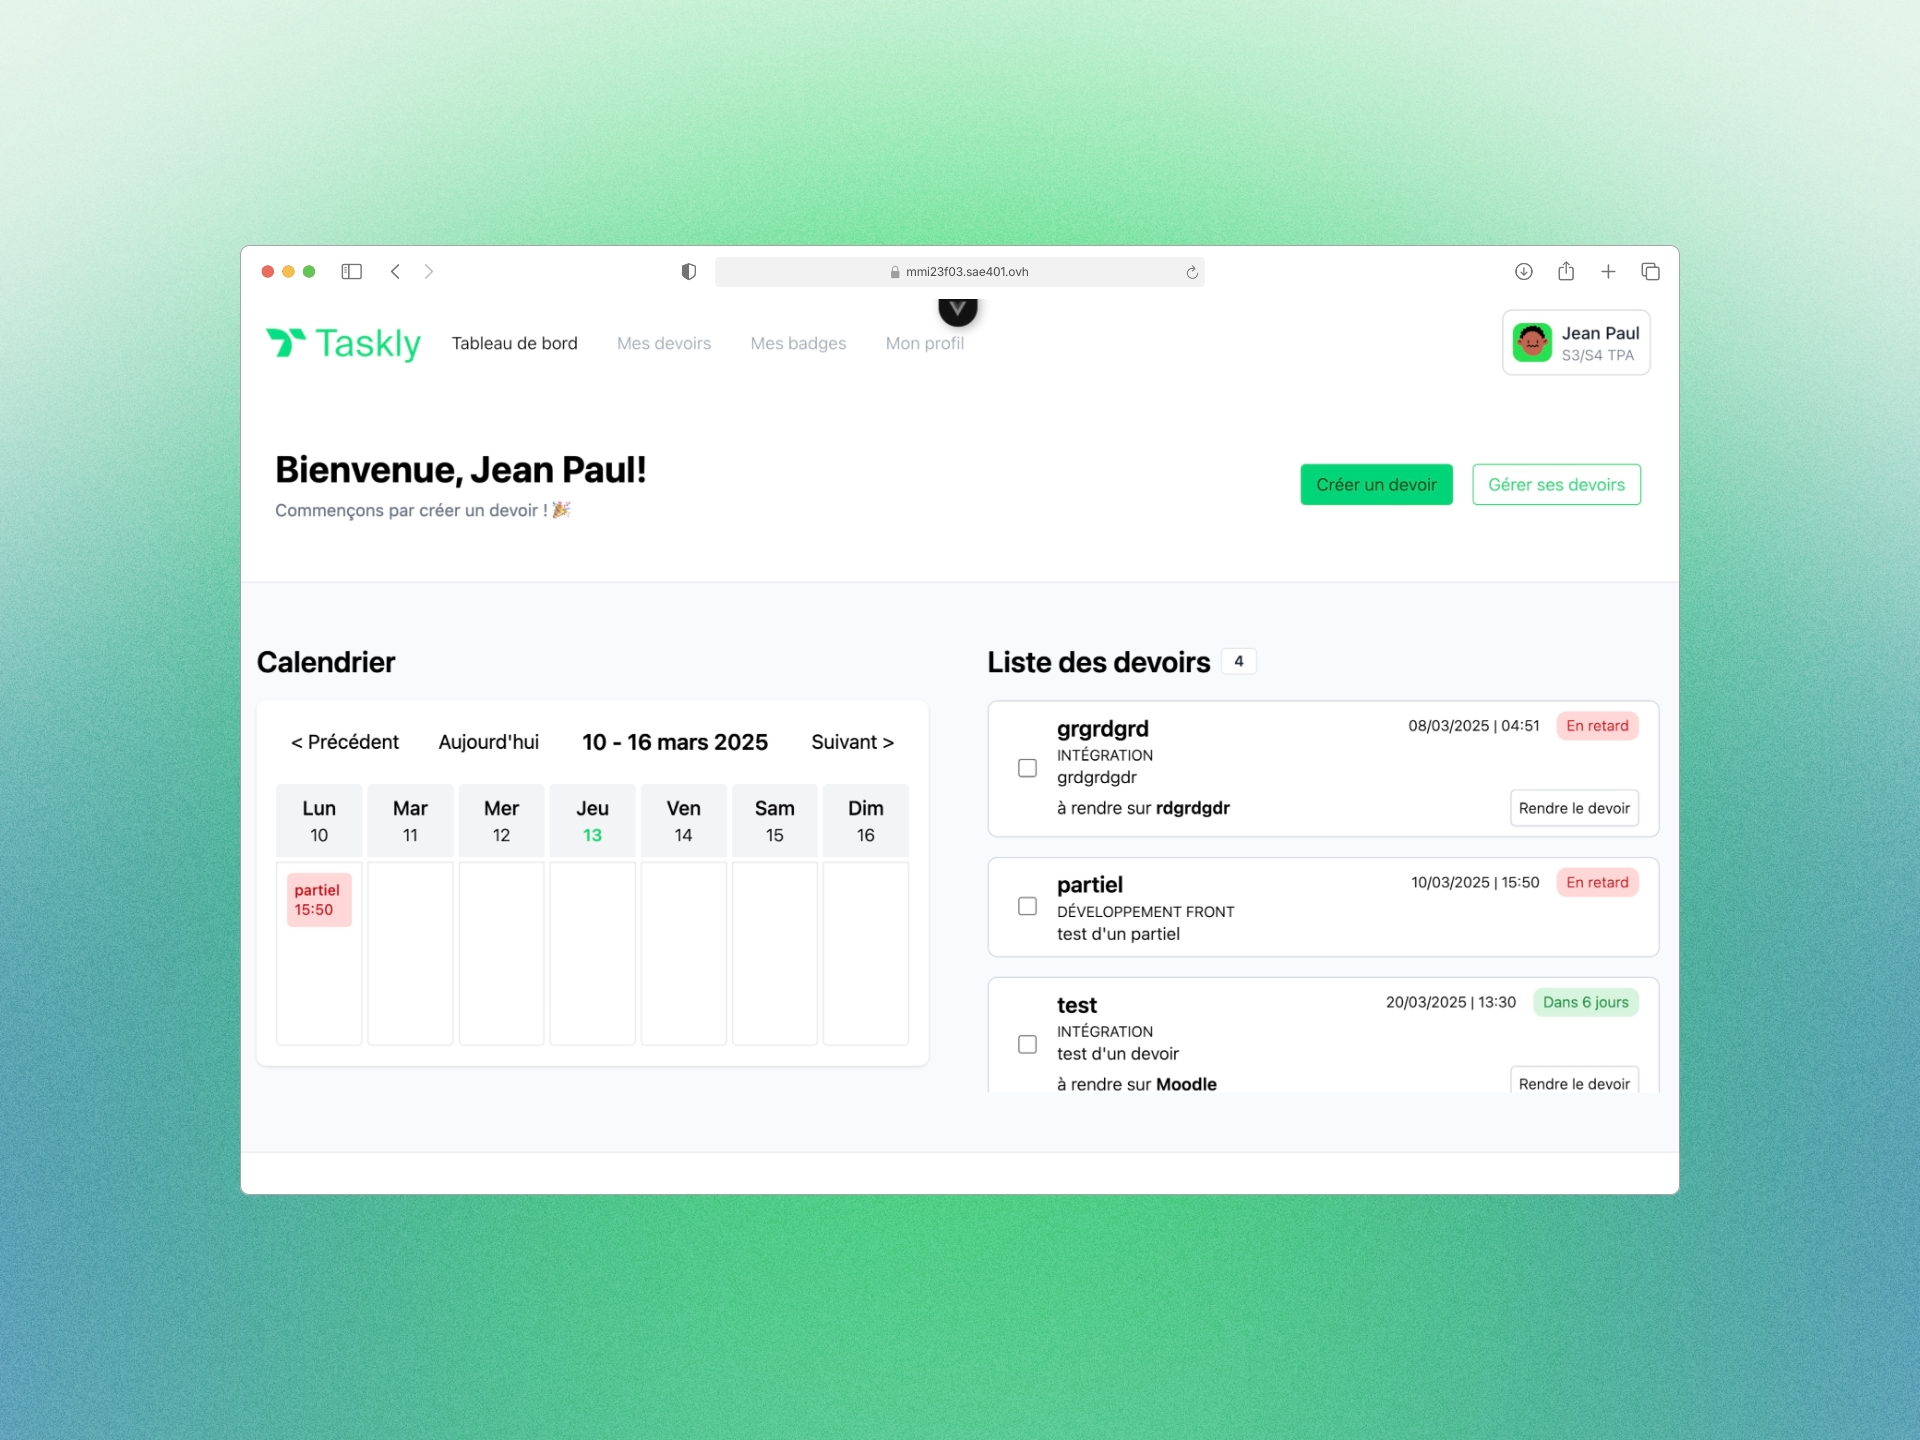
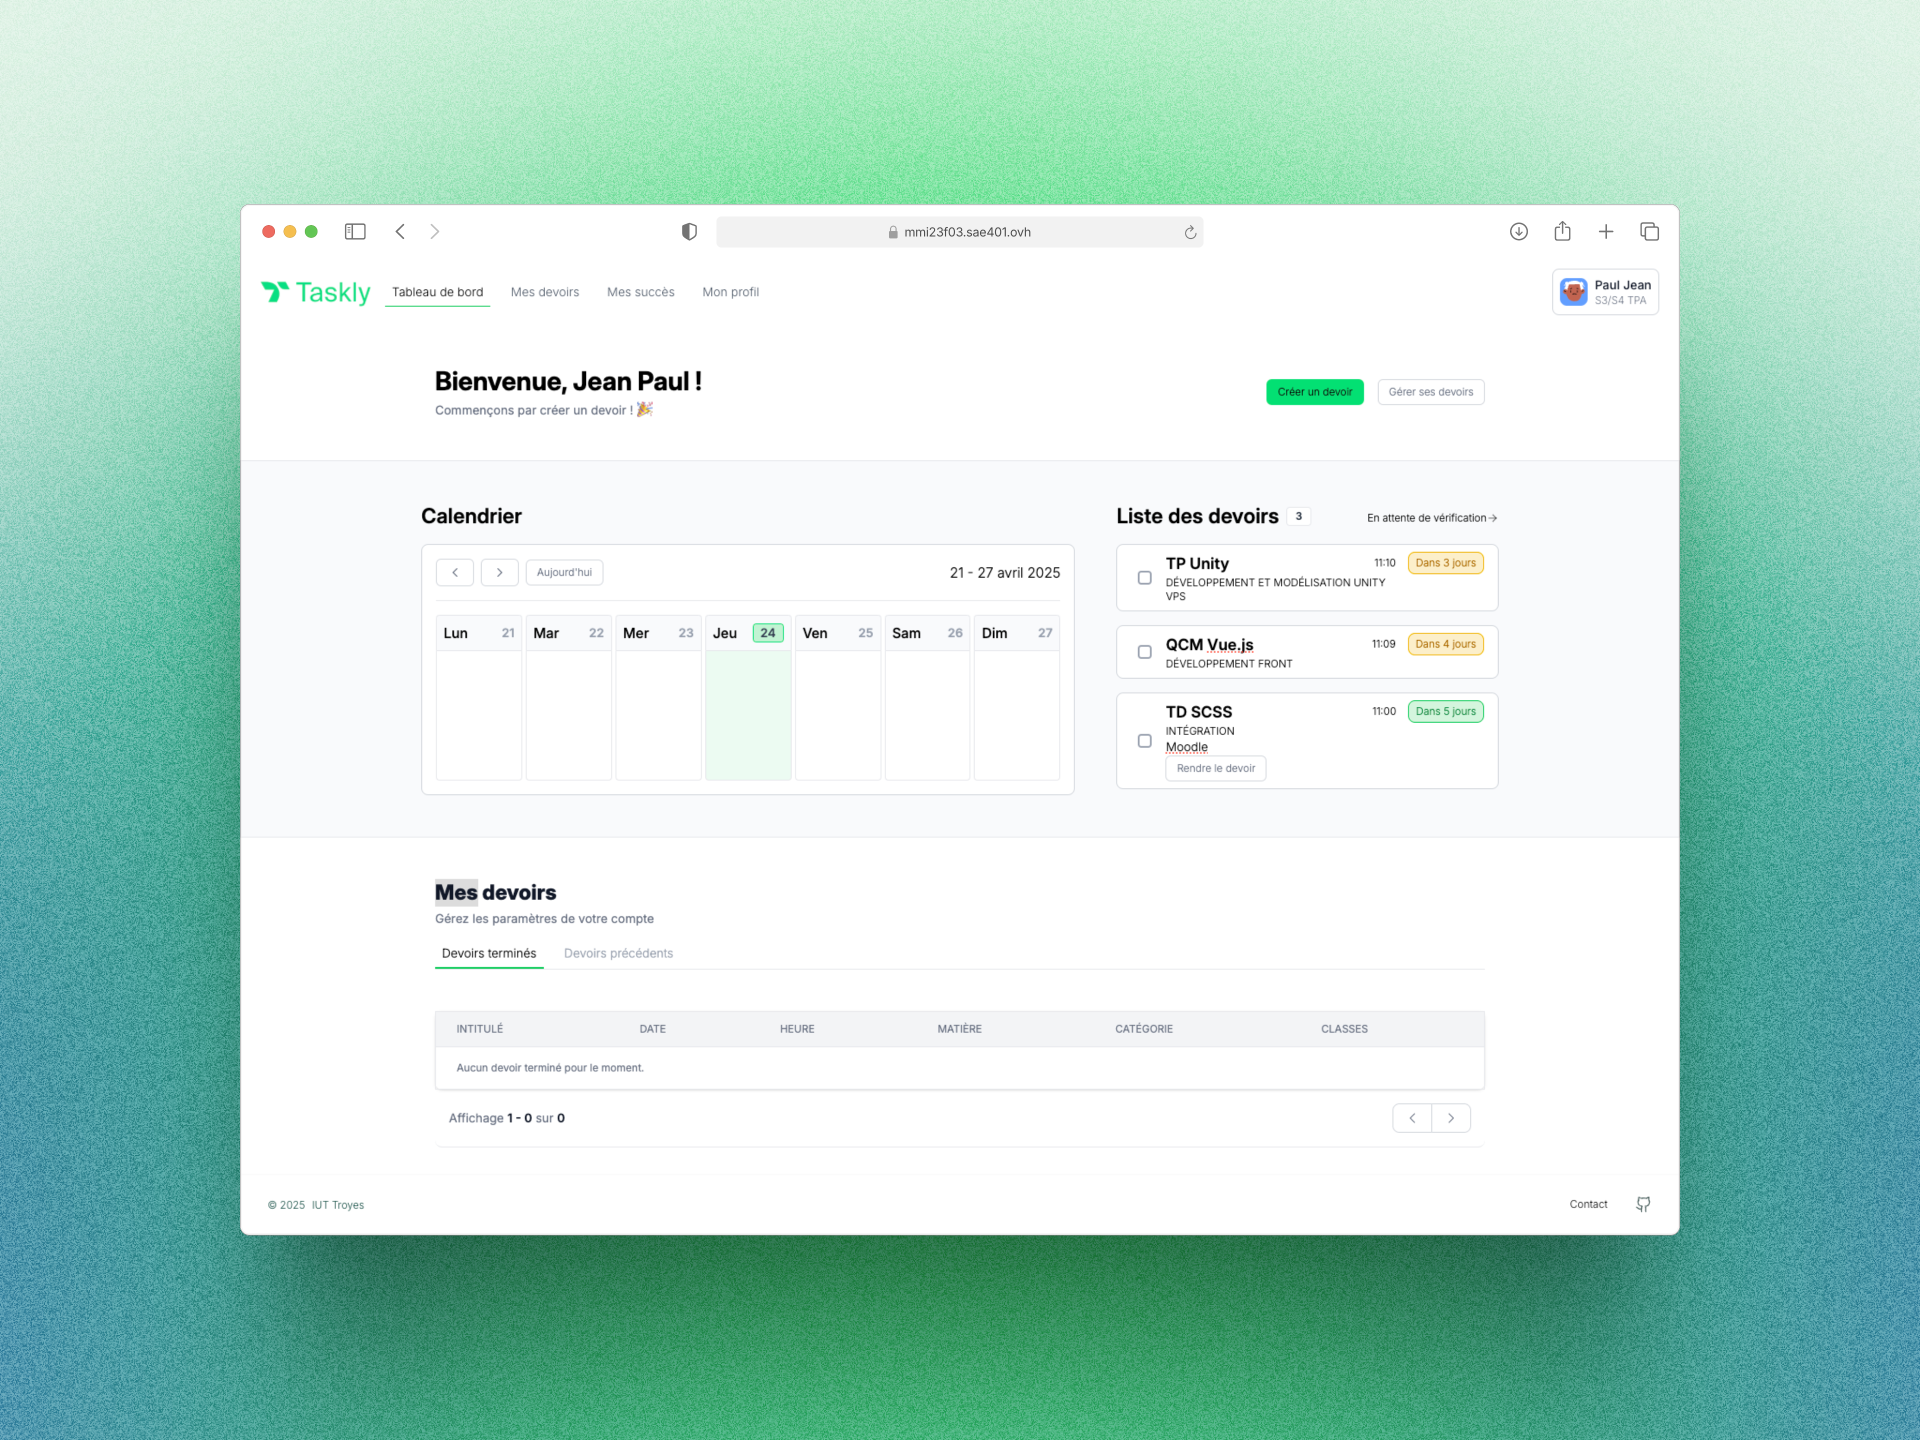
fix : hash mdp user admin + image login + README

diff --git a/front/src/views/Admin/Users/UsersNewView.vue b/front/src/views/Admin/Users/UsersNewView.vue
@@ -21,6 +21,12 @@ const error = ref('')
 const router = useRouter()
 const store = useStore()
 
+const hash = async (password) => {
+    const bcrypt = await import('bcryptjs');
+    const salt = await bcrypt.genSalt(10);
+    return await bcrypt.hash(password, salt);
+};
+
 const triggerToast = inject('triggerToast');
 
 const AjouterUsers = async () => {
@@ -33,6 +39,8 @@ const AjouterUsers = async () => {
         loading.value = false;
         return;
     }
+
+    password.value = await hash(password.value);
 
   const userData = {
     nom: nom.value,

diff --git a/README.md b/README.md
@@ -1,6 +1,8 @@
 # SAE401 - Cahier de texte | [![wakatime](https://wakatime.com/badge/user/655aa6eb-7c71-402f-b161-4ab28498501a/project/4bb73051-6ad3-469a-a2b2-911a73ad9be6.svg)](https://wakatime.com/badge/user/655aa6eb-7c71-402f-b161-4ab28498501a/project/4bb73051-6ad3-469a-a2b2-911a73ad9be6)
 Membre du groupes : [BABALOLA Job-Faël](https://github.com/Kkeryyann), [BIROST Théo](https://github.com/TheoBirost), [BRUZEK Elouan](https://github.com/AloneDay-91), [GIRMA Valentin](https://github.com/Valgrm), [LOUIS Florent](https://github.com/Lewis3306)
 
+<img src="https://mmi23f03.sae401.ovh/assets/img_accueil-CYZzQbZZ.jpeg" style="width: auto;"/>
+
 ## Présentation du projet
 
 L'objectif est de concevoir une application web qui permet aux étudiants de centraliser et de suivre facilement les dates de rendu de leurs évaluations, travaux et autres échéances. Cette application ne servira pas à soumettre les travaux, mais uniquement à informer et rappeler les dates importantes.
